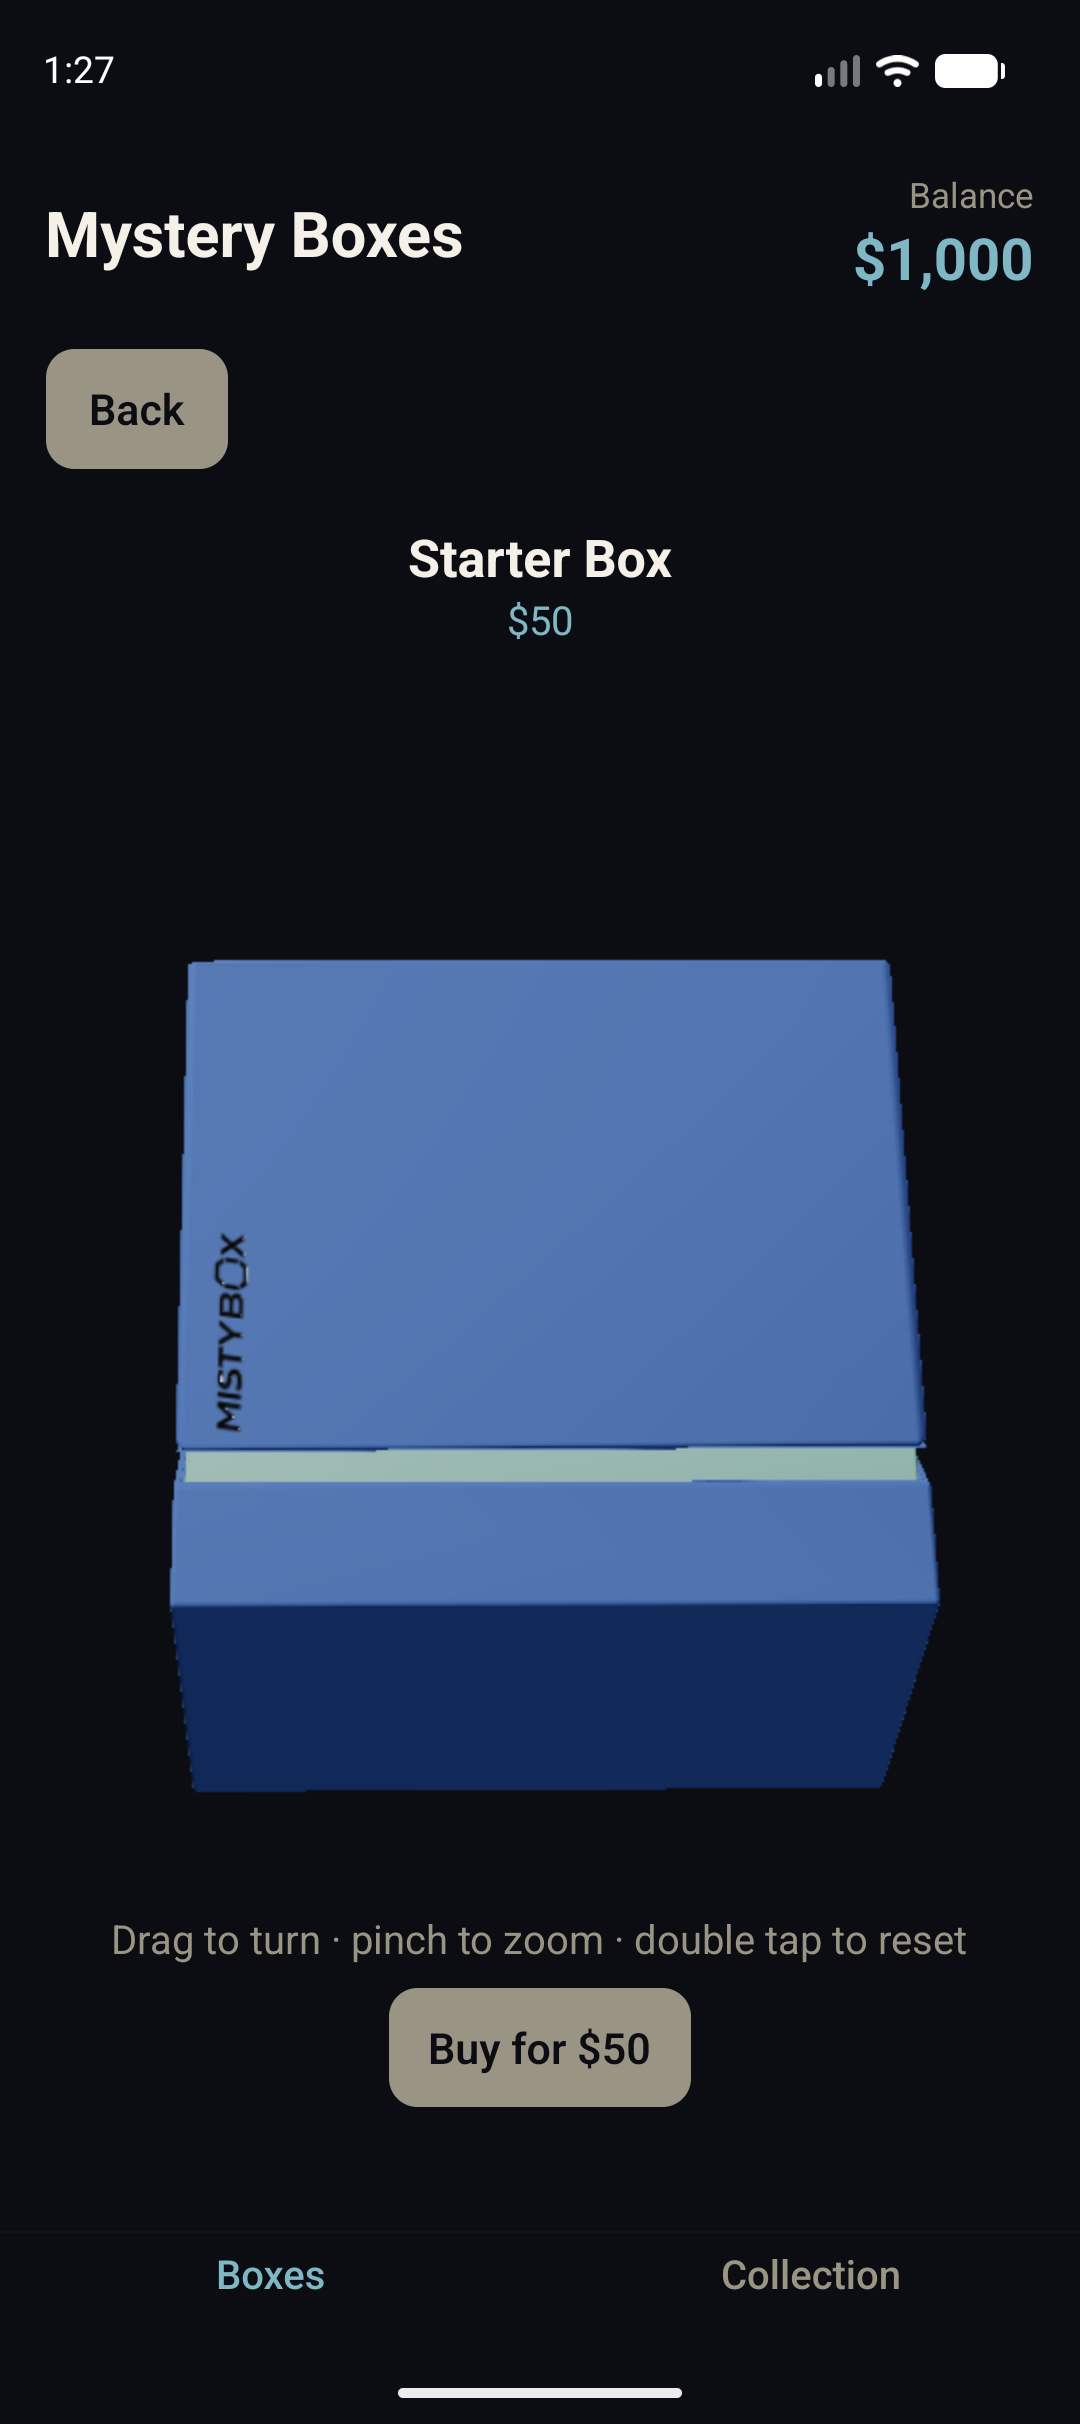
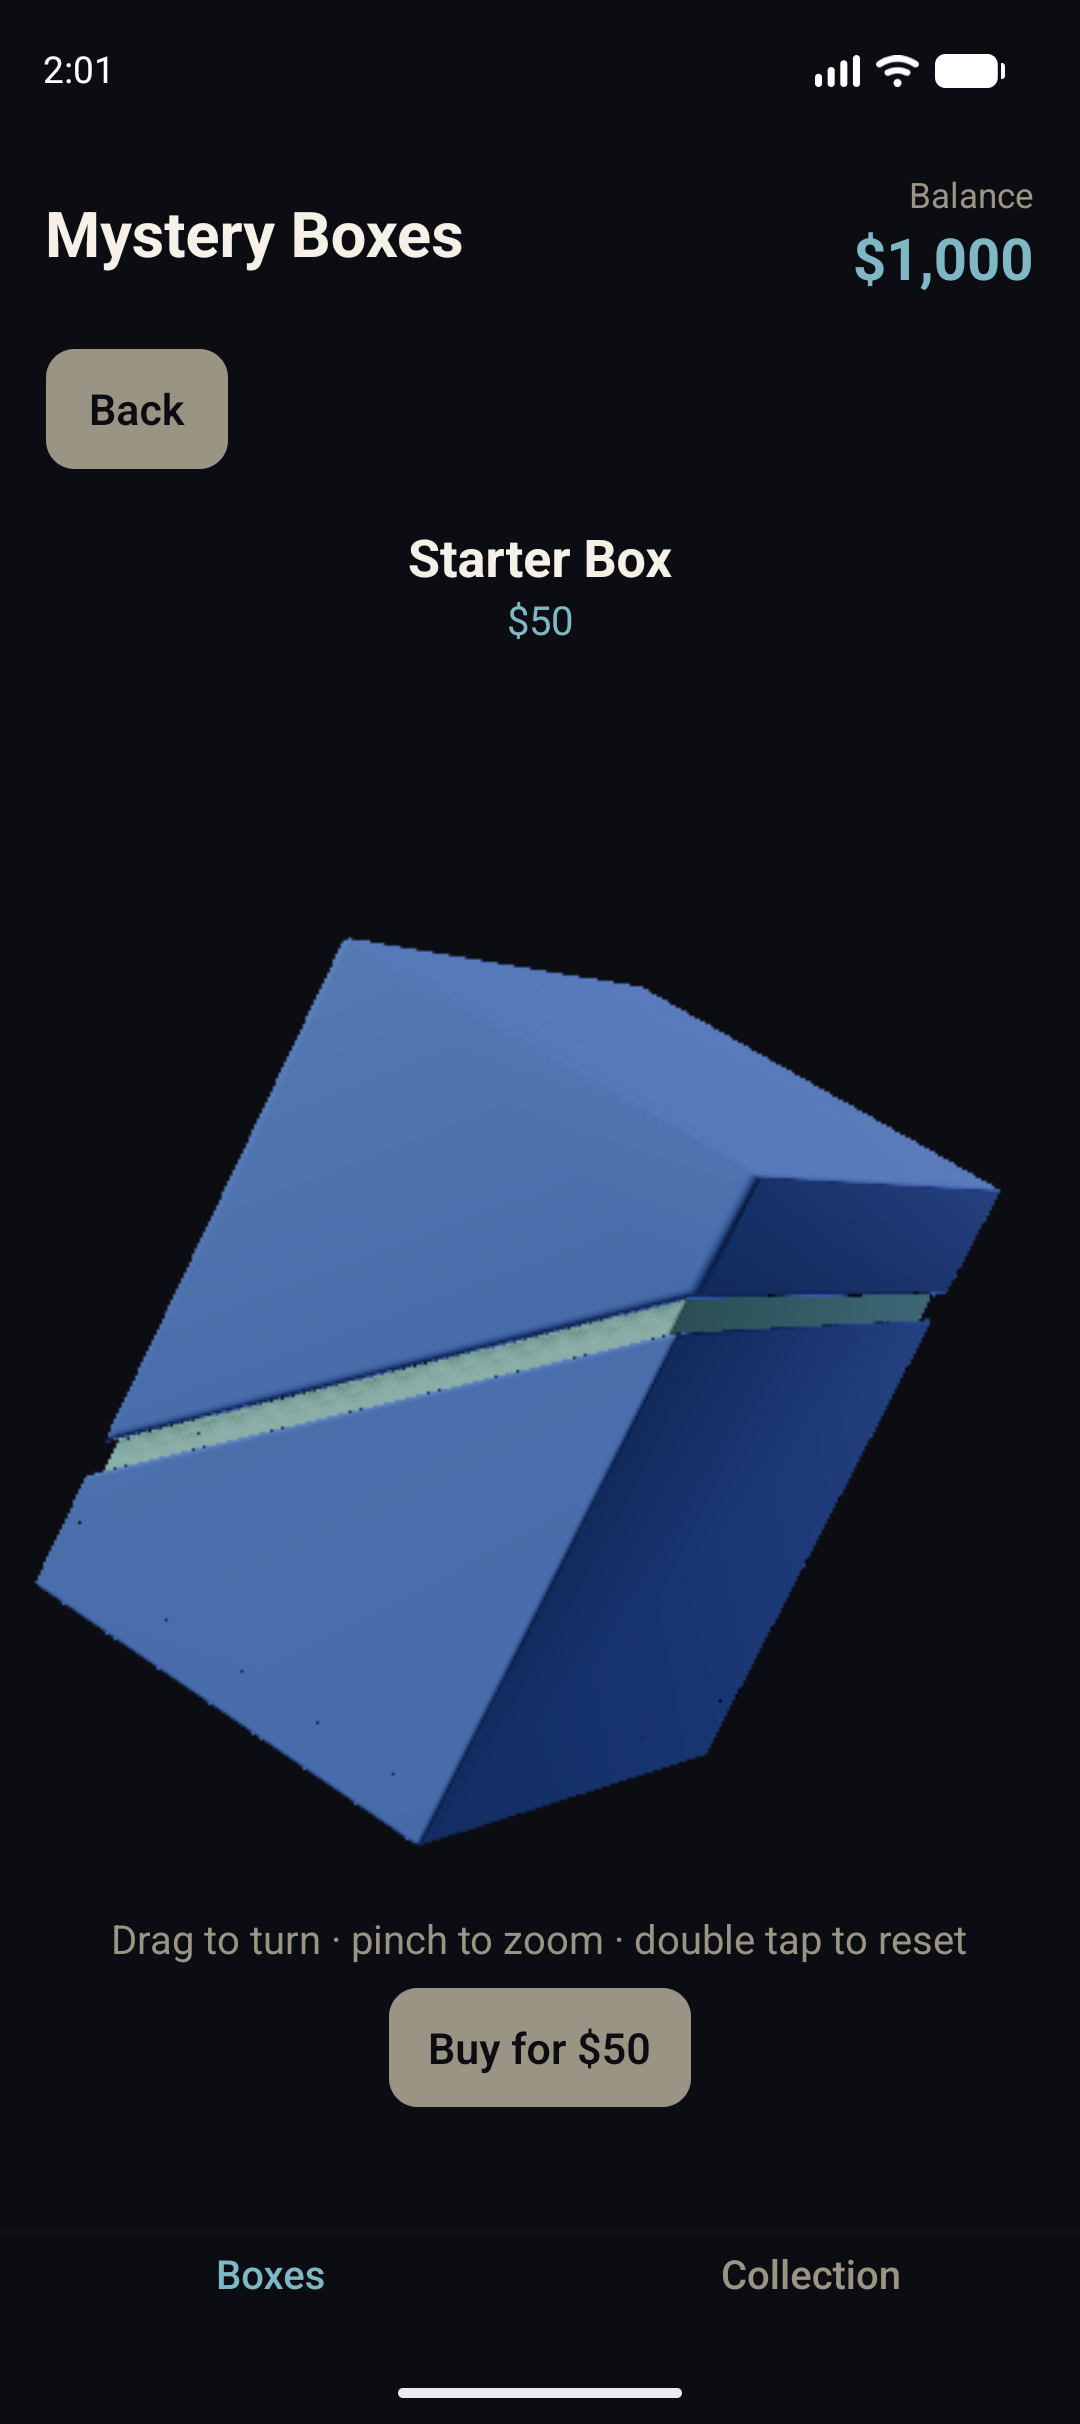
perf: render at 0.37 scale (60 FPS in inspect on the emulator), shadows only while a box is inspected, polygon offset on lid body, render() timing log

Changed region(s): [[0.0306, 0.3713, 0.9167, 0.7735], [0.7639, 0.0, 0.7944, 0.0309]]

diff --git a/src/flows/catalogueFlow/_config/sceneRenderConfig.ts b/src/flows/catalogueFlow/_config/sceneRenderConfig.ts
@@ -22,10 +22,10 @@ export const SCENE_LIGHTS: ISceneLight[] = [
 
 // Reflections of the environment (what makes glossy and metallic boxes look glossy and metallic).
 // A procedurally built "room" (three.js RoomEnvironment) filtered once into a PMREM cube map.
-export const ENVIRONMENT_INTENSITY = 0.55
+export const ENVIRONMENT_INTENSITY = 0.25
 
 // Real shadows: the lid shades the inside of the box, the box shades its own lower edge.
-export const SHADOW_MAP_SIZE = 1024
+export const SHADOW_MAP_SIZE = 512
 export const SHADOW_FRUSTUM_HALF_SIZE = 3.4
 export const SHADOW_BIAS = -0.0004
 export const SHADOW_NORMAL_BIAS = 0.012
@@ -37,12 +37,12 @@ export const IS_ANTIALIASING_ENABLED = true
 
 // Feature switches (documented in docs/ANIMATIONS.md; used to find what a GL driver cannot take).
 export const IS_ENVIRONMENT_ENABLED = false
-export const IS_SHADOWS_ENABLED = false
+export const IS_SHADOWS_ENABLED = true
 
 // The GL view is rendered at this fraction of the screen's native pixel size and scaled up by the
 // compositor. expo-gl always renders at the full native resolution (3x on an iPhone), which a
 // JS-driven scene with real-time shadows cannot fill at 60 FPS.
-export const RENDER_RESOLUTION_SCALE = 0.5
+export const RENDER_RESOLUTION_SCALE = 0.37
 
 // A GPU sync point (a one-pixel read-back) after every Nth frame: back-pressure for the JS frame loop,
 // see services/gpuSync/installGpuSync.ts. 0 = never.

diff --git a/src/flows/catalogueFlow/screens/CatalogueScreen/_components/CatalogueScene/CatalogueScene.tsx b/src/flows/catalogueFlow/screens/CatalogueScreen/_components/CatalogueScene/CatalogueScene.tsx
@@ -12,7 +12,7 @@ import { CatalogueBoxes } from '@flows/catalogueFlow/screens/CatalogueScreen/_co
 import { SceneLighting } from '@flows/catalogueFlow/screens/CatalogueScreen/_components/CatalogueScene/_components/SceneLighting/SceneLighting'
 import { makeStyles } from '@flows/catalogueFlow/screens/CatalogueScreen/_components/CatalogueScene/CatalogueScene.styles'
 import { installGpuSync } from '@services/gpuSync/installGpuSync'
-import type { IOpeningPhaseKey } from '@flows/openingFlow/_types'
+import { EOpeningPhase, type IOpeningPhaseKey } from '@flows/openingFlow/_types'
 
 interface ICatalogueSceneProps {
   cards: ICatalogueCard[]
@@ -54,14 +54,14 @@ export const CatalogueScene = ({
     <Canvas
       style={styles.canvas}
       frameloop="always"
-      shadows={IS_SHADOWS_ENABLED}
+      shadows={IS_SHADOWS_ENABLED && phaseKey !== EOpeningPhase.Browsing}
       camera={camera}
       gl={{ alpha: true, antialias: IS_ANTIALIASING_ENABLED, toneMapping: ACESFilmicToneMapping }}
       onCreated={handleCreated}
       pointerEvents="none"
       testID="catalogueCanvas"
     >
-      <SceneLighting />
+      <SceneLighting isShadowActive={phaseKey !== EOpeningPhase.Browsing} />
       <FrameMeter onRenderedFrame={onRenderedFrame} />
       {cards.length > 0 && viewport ? (
         <CatalogueBoxes

diff --git a/src/flows/catalogueFlow/screens/CatalogueScreen/_components/CatalogueScene/_components/SceneLighting/SceneLighting.tsx b/src/flows/catalogueFlow/screens/CatalogueScreen/_components/CatalogueScene/_components/SceneLighting/SceneLighting.tsx
@@ -2,7 +2,12 @@ import { IS_SHADOWS_ENABLED, SCENE_LIGHTS, SHADOW_BIAS, SHADOW_FRUSTUM_HALF_SIZE
 import { useFacadeSceneLighting } from '@flows/catalogueFlow/screens/CatalogueScreen/_components/CatalogueScene/_components/SceneLighting/_facades/useFacadeSceneLighting'
 
 // The light rig (key with shadows, rim, fill) plus the reflection environment.
-export const SceneLighting = () => {
+interface ISceneLightingProps {
+  // Shadows cost a second depth pass: they are drawn only while a box is inspected, not in the list.
+  isShadowActive: boolean
+}
+
+export const SceneLighting = ({ isShadowActive }: ISceneLightingProps) => {
   useFacadeSceneLighting()
 
   return (
@@ -13,7 +18,7 @@ export const SceneLighting = () => {
           position={light.position}
           color={light.colorHex}
           intensity={light.intensity}
-          castShadow={IS_SHADOWS_ENABLED && light.castShadows}
+          castShadow={IS_SHADOWS_ENABLED && isShadowActive && light.castShadows}
           shadow-mapSize={[SHADOW_MAP_SIZE, SHADOW_MAP_SIZE]}
           shadow-camera-left={-SHADOW_FRUSTUM_HALF_SIZE}
           shadow-camera-right={SHADOW_FRUSTUM_HALF_SIZE}

diff --git a/src/services/gpuSync/installGpuSync.ts b/src/services/gpuSync/installGpuSync.ts
@@ -30,10 +30,22 @@ export const installGpuSync = (renderer: IRenderer, intervalFrames: number): voi
   const render = renderer.render.bind(renderer)
   let frameNumber = 0
 
+  let renderMilliseconds = 0
+
   renderer.render = (...renderArguments) => {
+    const startedAt = performance.now()
+
     render(...renderArguments)
 
+    renderMilliseconds += performance.now() - startedAt
+
     frameNumber += 1
+
+    if (frameNumber % 60 === 0) {
+      console.info(`[render] avg render() ${(renderMilliseconds / 60).toFixed(1)} ms`)
+
+      renderMilliseconds = 0
+    }
 
     if (shouldSyncAfterFrame(frameNumber, intervalFrames)) {
       context.readPixels(0, 0, 1, 1, context.RGBA, context.UNSIGNED_BYTE, pixel)

diff --git a/src/services/boxModel/createBoxInstance.ts b/src/services/boxModel/createBoxInstance.ts
@@ -88,6 +88,14 @@ export const createBoxInstance = (template: Object3D, look: IBoxLook, castShadow
 
     material.clearcoat = look.clearCoat
 
+    // The thin rim of the lid, the outer and the inner surfaces nearly coincide: pull the outer one
+    // slightly towards the camera so the two do not fight (dashed edges otherwise).
+    material.polygonOffset = true
+
+    material.polygonOffsetFactor = -1
+
+    material.polygonOffsetUnits = -1
+
     mesh.material = material
   }
 
